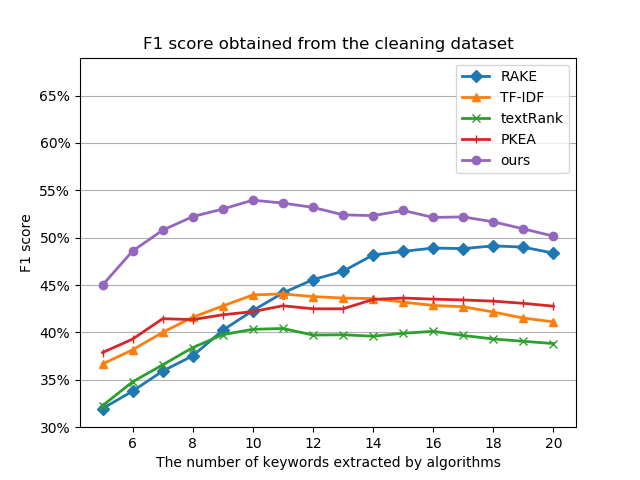
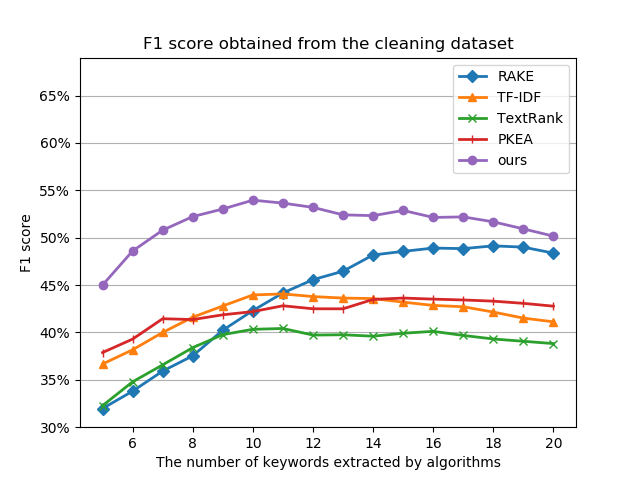
2019.6.18 20:36

Changed region(s): [[0.7812, 0.125, 0.8438, 0.3438], [0.6875, 0.125, 0.75, 0.25], [0.6875, 0.2812, 0.75, 0.3438]]

diff --git a/scripts/TSNE.py b/scripts/TSNE.py
@@ -38,11 +38,12 @@ def plot_with_labels(low_dim_embs, color_labels, ipc_labels, filename):
     color_list = ['b', 'g', 'y']
     for i, label in enumerate(color_labels):
         x, y = low_dim_embs[i, :]
+        # if i in range(2687, 2690):
         if i in range(2336, 2339):
-            plt.scatter(x, y, s=100, c='r')
+            plt.scatter(x, y, s=250, c='r')
         else:
             plt.scatter(x, y, c=color_list[label])
-            plt.annotate(ipc_labels[i], xy=(x, y), xytext=(5, 2), textcoords='offset points',ha='right', va='bottom')
+            # plt.annotate(ipc_labels[i], xy=(x, y), xytext=(5, 2), textcoords='offset points',ha='right', va='bottom')
     plt.savefig(filename)
 
 def techField_wordAVG_display():
@@ -93,7 +94,8 @@ def techField_wordAVG_display():
     for i in range(3):
         cluster.append(-2)
     print(len(cluster))
-    plot_with_labels(low_dim_embs, cluster, ipc_list, '../data/bxd_TSNE_cluster_NEW.png')
+    plot_with_labels(low_dim_embs, cluster, ipc_list, '../data/bxd_TSNE_cluster_NEW123.png')
+    # plot_with_labels(low_dim_embs, cluster, '../data/bxd_TSNE_cluster_NEW123.png')
 
 if __name__ == '__main__':
     techField_wordAVG_display()

diff --git a/scripts/drawFigure.py b/scripts/drawFigure.py
@@ -7,7 +7,7 @@ assert len(x) == len(RAKE_y)
 fig = plt.figure()
 plt.plot(x, RAKE_y, marker='D', label='RAKE', lw=2)
 plt.plot(x, TF_IDF_y, marker='^', label='TF-IDF', lw=2)
-plt.plot(x, textRank_y, marker='x', label='textRank', lw=2)
+plt.plot(x, textRank_y, marker='x', label='TextRank', lw=2)
 plt.plot(x, PKEA_y, marker='|', label='PKEA', lw=2)
 plt.plot(x, ours_y, marker='o', label='ours', lw=2)
 def to_percent(temp, position):
@@ -15,11 +15,11 @@ def to_percent(temp, position):
 plt.gca().yaxis.set_major_formatter(FuncFormatter(to_percent))
 plt.xlabel('The number of keywords extracted by algorithms')
 plt.ylabel('F1 score')
-plt.title('F1 score obtained from the telephone communication dataset')
+plt.title('F1 score obtained from the cleaning dataset')
 plt.legend(loc='lower right')
 plt.ylim((30, 69))
 plt.grid(axis="y")
-filename = r'D:\PycharmProjects\KeywordExtraction\data\电话F1_line.png'
+filename = r'D:\PycharmProjects\KeywordExtraction\data\清洁F1_line.png'
 plt.savefig(filename)
 plt.show()
 

diff --git a/scripts/result_test.py b/scripts/result_test.py
@@ -159,8 +159,8 @@ def result_test(truth_name, test_name, test_model, truth_top_k=10, test_top_k=10
         return rake_F1, tfidf_F1, textRank_F1, PKEA_F1, our_F1
 
 def main():
-    truth_name = r'..\data\patent_abstract\6种专利摘要各100条已标注\移动通信综合.txt'
-    test_name = r'..\data\patent_abstract\6种专利摘要各100条已标注\dianhua_RAKE_TFIDF_textRank_PKEA_ours_techField_wordAVG_1.04_50.txt'
+    truth_name = r'..\data\patent_abstract\6种专利摘要各100条已标注\清洁综合.txt'
+    test_name = r'..\data\patent_abstract\6种专利摘要各100条已标注\qingjie_RAKE_TFIDF_textRank_PKEA_ours_techField_wordAVG_1.0115_50.txt'
     test_model = 'F1'
     test_top_k = 5
     truth_top_k = 10
